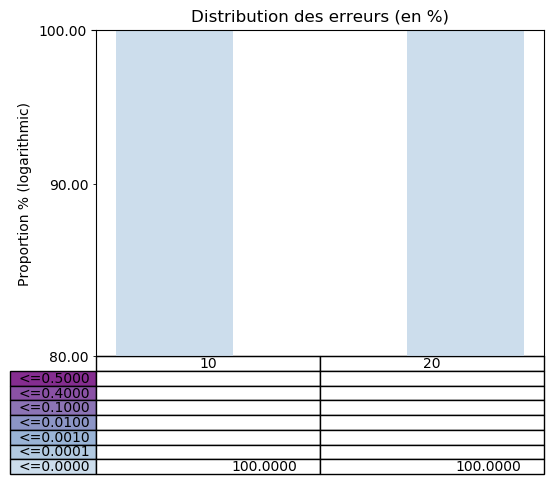
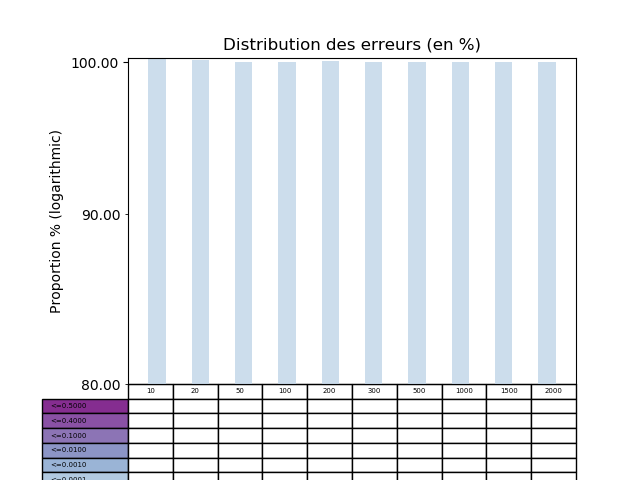
another test for 4G30S

diff --git a/cplex/Read_Data.py b/cplex/Read_Data.py
@@ -12,9 +12,9 @@ import os, psutil
 import math
 
 
-nb_people = [10,20]
+nb_people = [10,20,50,100,200,300,500,1000,1500,2000]
 data = np.zeros((len(nb_people),7),dtype=float)
-
+gene = 2
 
 def data_to_plot(file):
     with open(file) as f:
@@ -24,30 +24,32 @@ def data_to_plot(file):
             if data[w].sum() >= 100.0:
                 print('oui')
                 w+=1
+                if w == len(nb_people):
+                    return data
 
             v,x = line.split()
             v = float(v)
             x = float(x)
             if v < 10**-5:
-                data[w][0] += x
+                data[w][0] += x/gene
             elif v < 10**-4:
-                data[w][1] += x
+                data[w][1] += x/gene
             elif v < 10**-3:
-                data[w][2] += x
+                data[w][2] += x/gene
             elif v < 10**-2:
-                data[w][3] += x
+                data[w][3] += x/gene
             # else:
             elif v < 10 ** -1:
-                data[w][4] += x
+                data[w][4] += x/gene
             elif v < 0.4:
-                data[w][5] += x
+                data[w][5] += x/gene
             elif v < 0.5:
-                data[w][6] += x
+                data[w][6] += x/gene
 
 
     return data
 
-data = data_to_plot('./data/multi/lbp/proportion_3G_30')
+data = data_to_plot('./data/multi/lbp/proportion_2G_30')
 
 columns = nb_people
 # les seuils testés
@@ -109,5 +111,5 @@ plt.gca().get_yaxis().set_major_formatter(ticker.FormatStrFormatter('%.2f'))
 plt.xticks([])
 plt.title('Distribution des erreurs (en %)');
 #plt.savefig('../cplex/figure/LBP/proportion',bbox_inches='tight')
-plt.savefig('../cplex/multi/figure/proportion')
+plt.savefig('../cplex/multi/figure/proportion_2G',bbox_inches='tight')
 plt.show()

diff --git a/bped2/pedigree.py b/bped2/pedigree.py
@@ -998,13 +998,18 @@ class Pedigree:
     def insert_name(self,dict_name):
         for i in dict_name.keys():
             if i in self.get_pedigree():
-                self.get_people(i)._pID = dict_name[i]
-                self.get_pedigree()[dict_name[i]] = self.get_pedigree().pop(i)
+                self.add_people(self.get_people(i).famID, dict_name[i], self.get_people(i).fatID, self.get_people(i).matID)
+                self.add_sex(dict_name[i], self.get_people(i).sex)
+                for c in self.get_people(i).child:
+                    self.get_people(dict_name[i]).add_children(c)
+                self.remove_people(i)
+                # self.get_people(i)._pID = dict_name[i]
+                # self.get_pedigree()[dict_name[i]] = self.get_pedigree().pop(i)
             for p in self.get_pedigree().keys():
                 if self.get_people(p).matID == i:
                     self.get_people(p)._matID = dict_name[i]
                 if self.get_people(p).fatID == i:
                     self.get_people(p)._fatID = dict_name[i]
                 if i in self.get_people(p).child :
-                    self.get_people(p).child.remove(i)
-                    self.get_people(p).child.add(dict_name[i])
+                    self.get_people(p).remove_children(i)
+                    self.get_people(p).add_children(dict_name[i])

diff --git a/cplex/multi/exactitude_multi.py b/cplex/multi/exactitude_multi.py
@@ -27,7 +27,8 @@ distance = [0.8,0.7,0.5]
 centimorgans = [0.295797287184, 0.296353882133, 0.299343592142, 0.59]
 w = 0
 
-file = open('../data/multi/lbp/proportion_4G_30', 'w')
+file = open('../data/multi/lbp/proportion_4G_30_bis', 'w')
+#test = open('../data/multi/lbp/test_4G_30', 'w')
 
 for p,g_max,g_min in zip(nb_people,nb_Gen_Max,nb_Gen_Min):
 
@@ -56,7 +57,7 @@ for p,g_max,g_min in zip(nb_people,nb_Gen_Max,nb_Gen_Min):
                     p2 = ie2.posterior(f'X{j}_{g}')
                     x = [abs(p1[0] - p2[0]), abs(p1[1] - p2[1]), abs(p1[2] - p2[2]), abs(p1[3] - p2[3])]
                     v = max(x)
-                    file.write(f'{v}\t{100 / (nb_ped * p)}\n')
+                    file.write(f'{v}\t{100 / (nb_ped * p * gene)}\n')
                     file.flush()
                     if v < 10 ** -5:
                         data[w][0] += 100 / (nb_ped * p * gene)

diff --git a/bped2/view.py b/bped2/view.py
@@ -106,7 +106,6 @@ def create_holders(ped, bn, p, f):
     bn.addArc(f"fatX{p.pID}", f"X{p.pID}")
     bn.addArc(f"matX{p.pID}", f"X{p.pID}")
     bn.cpt(f"X{p.pID}").fillWith([1, 0, 0, 0, 0, 1, 0, 0, 0, 0, 1, 0, 0, 0, 0, 1])
-    bn.set
 
 def create_holders_multi(ped, bn, p, f,id_gen,name_gen=None):
     if name_gen is not None :
